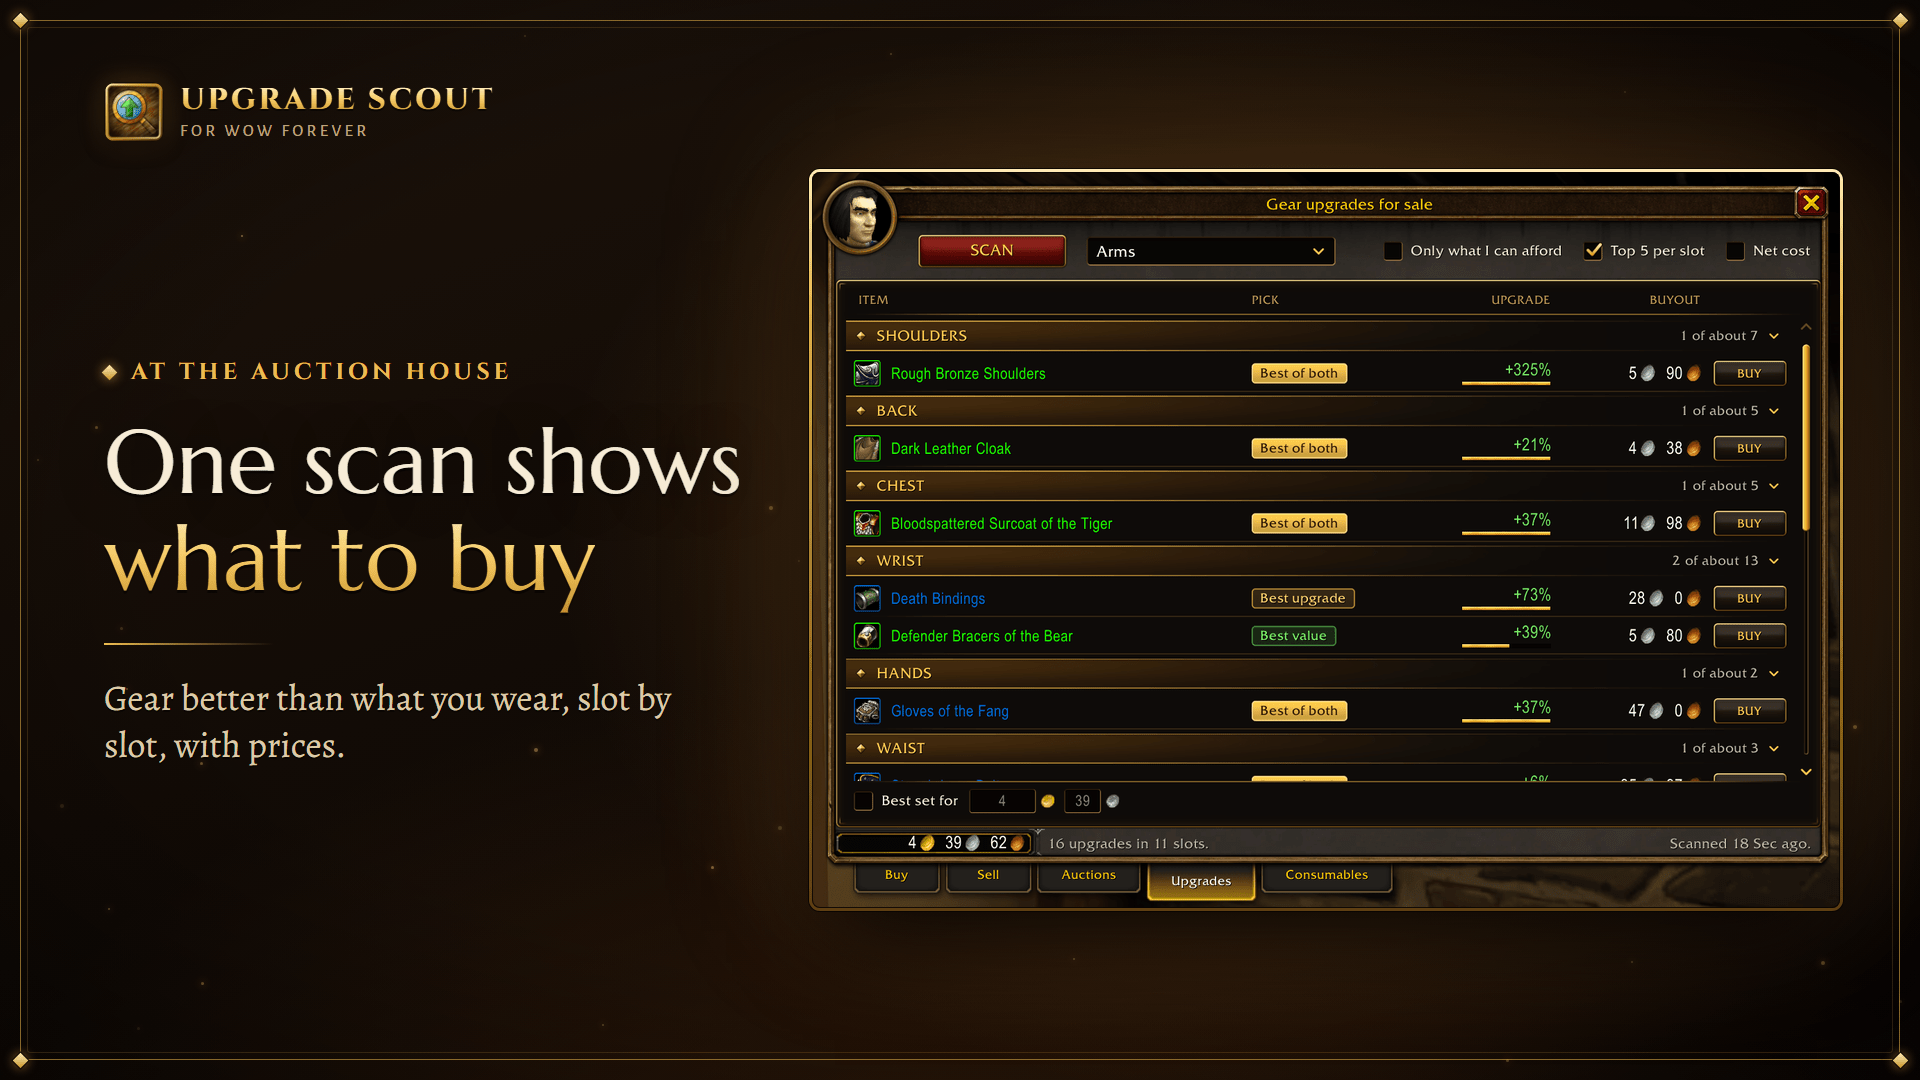
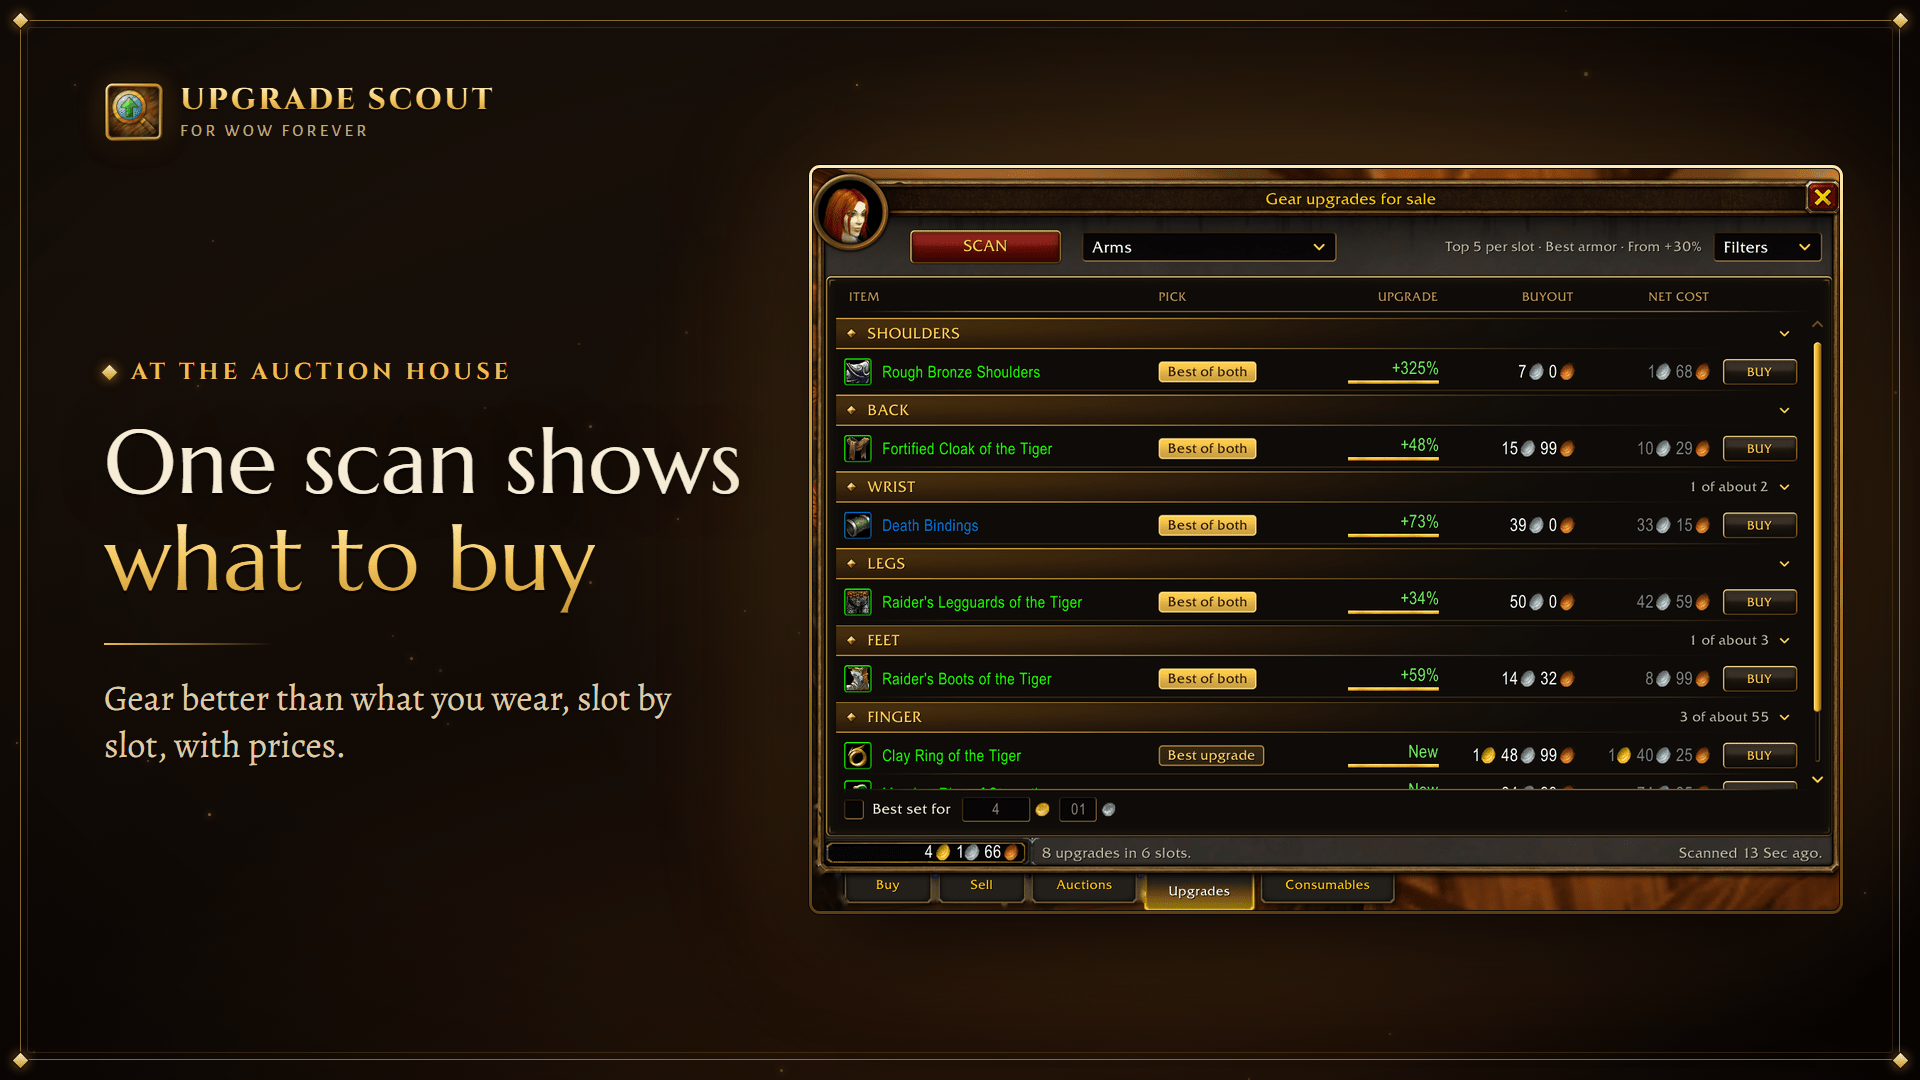
docs: the gallery for 2.6, a cover and eleven cards on new screenshots
The cards follow what a player does: find and buy at the auction house,
consumables, then tooltips and bags, prices, filters, other characters, the
mail, the setup. Three are new: the box that asks before a purchase, the
Filters menu, and Pawn. The price card shows the two prices side by side, the
setup card the window as it is now, and the tooltip card says "Every spec".

The user's brief for the pictures: every one shows the addon's own weights,
and Pawn has a single card that says the addon works with Pawn in full. It is
the last one, and the CurseForge description follows suit: no line about Pawn
on top, one section "For Pawn users" near the end.

README.md shows the new set and docs/screenshot-captions.md lists its
captions. The pictures in the CurseForge description still point at the old
uploads: the new ones get their addresses once they are in CurseForge's
gallery. The seven old pictures stay in docs/img until then, in case a copy of
the old README is still shown somewhere.

Changed region(s): [[0.4062, 0.1528, 0.9688, 0.8556], [0.7812, 0.3972, 0.8125, 0.4278], [0.7188, 0.6111, 0.75, 0.6417]]

diff --git a/docs/curseforge-description.html b/docs/curseforge-description.html
@@ -4,8 +4,6 @@
 
 <p>Open the auction house, press <strong>Scan</strong> and see what is worth buying. It works right after you install it. No other addon is needed.</p>
 
-<p>Use Pawn? Choose <strong>Pawn</strong> in the addon's window, and gear is scored on your Pawn scales.</p>
-
 <p>&nbsp;</p>
 <p><a href="https://media.forgecdn.net/attachments/2209/882/1-scan-png.png"><img src="https://media.forgecdn.net/attachments/2209/882/1-scan-png.png" alt="One scan shows what to buy: the Upgrades tab at the auction house, gear upgrades slot by slot, each with its gain in percent, its buyout and a Buy button" width="760"></a></p>
 <p><a href="https://media.forgecdn.net/attachments/2209/883/2-tooltip-png.png"><img src="https://media.forgecdn.net/attachments/2209/883/2-tooltip-png.png" alt="Every talent tree in the tooltip: an item tooltip with the Upgrade Scout lines, the gain for Arms, Fury and Protection" width="760"></a></p>
@@ -55,18 +53,6 @@
 <li>The bag arrows can be switched off as well.</li>
 </ul>
 
-<h2><strong>Scores: the addon's own or Pawn's</strong></h2>
-<ul>
-<li>The addon scores gear with its own stat weights for every spec, worked out with the <a href="https://github.com/wowsims/forever">wowsims/forever</a> simulator. No other addon is needed.</li>
-<li>Use Pawn? In the addon's window, under <strong>Who scores your gear?</strong>, choose <strong>Pawn</strong>. Gear is then scored on your Pawn scales, not on the addon's weights. The lists and the bag arrows go by them, the <strong>Profile</strong> dropdown lists your scales, and the tooltip lines are Pawn's own.</li>
-<li>The choice is for the whole account. Without Pawn, or with Pawn switched off, the addon scores by its own weights.</li>
-<li>With Pawn chosen, a list made for another of your characters goes by that character's Pawn scales. Its tooltips have the addon's lines, and they say so: <strong>Upgrade Scout (Pawn score)</strong>.</li>
-<li>A profile says what each stat is worth for one spec. An item's score is the sum of its stats, each times its weight in the profile.</li>
-<li>The addon starts on the talent tree you have the most points in; you can pick another in the <strong>Profile</strong> dropdown.</li>
-<li>The weights are for a level 60 character, so they are an approximation. Below 60, hit, crit, haste and expertise count for less, as simulations of leveling characters show. Stamina (except for tanks), and a healer's Intellect, Spirit and mana regeneration, are set by hand. Armor, shield block, defense, dodge and parry count on every profile: against Stamina, as much as they help the simulator's tank. A <code>~</code> marks a profile whose weights are estimated because no simulation covers its tree yet.</li>
-<li><code>/upscout stats</code> and an item shows how the item gets its score, stat by stat.</li>
-</ul>
-
 <h2><strong>Other characters</strong></h2>
 <ul>
 <li>Log in to the other character once with the addon installed. The addon saves its gear, level and skills.</li>
@@ -74,11 +60,28 @@
 <li>At a mailbox, take the gear you bought out of the mail. A button under the mail window then puts it into a letter to that character. Consumables you send yourself.</li>
 </ul>
 
+<h2><strong>Profiles and scores</strong></h2>
+<ul>
+<li>The addon scores gear with its own stat weights for every spec, worked out with the <a href="https://github.com/wowsims/forever">wowsims/forever</a> simulator. No other addon is needed.</li>
+<li>A profile says what each stat is worth for one spec. An item's score is the sum of its stats, each times its weight in the profile.</li>
+<li>The addon starts on the talent tree you have the most points in; you can pick another in the <strong>Profile</strong> dropdown.</li>
+<li>The weights are for a level 60 character, so they are an approximation. Below 60, hit, crit, haste and expertise count for less, as simulations of leveling characters show. Stamina (except for tanks), and a healer's Intellect, Spirit and mana regeneration, are set by hand. Armor, shield block, defense, dodge and parry count on every profile: against Stamina, as much as they help the simulator's tank. A <code>~</code> marks a profile whose weights are estimated because no simulation covers its tree yet.</li>
+<li><code>/upscout stats</code> and an item shows how the item gets its score, stat by stat.</li>
+</ul>
+
 <h2><strong>Settings and commands</strong></h2>
 <ul>
-<li>A window on your first login shows what the addon does. There you choose who scores your gear and your spec, and can switch off the tooltip lines and the bag arrows. The addon's button at the minimap opens it again, and so does <code>/upscout</code>.</li>
+<li>A window on your first login shows what the addon does. There you choose your spec and can switch off the tooltip lines and the bag arrows. The addon's button at the minimap opens it again, and so does <code>/upscout</code>.</li>
 <li><code>/upscout stats</code> shows how long the last scan took.</li>
 <li><code>/upscout forget Name</code> removes a deleted character from the dropdown.</li>
+</ul>
+
+<h2><strong>For Pawn users</strong></h2>
+<ul>
+<li>Use Pawn? In the addon's window, under <strong>Who scores your gear?</strong>, choose <strong>Pawn</strong>. Gear is then scored on your Pawn scales, not on the addon's weights.</li>
+<li>Everything goes by them: the lists at the auction house, the bag arrows and the tooltips, where the lines are Pawn's own. The <strong>Profile</strong> dropdown lists your scales, for your other characters too.</li>
+<li>A list made for another of your characters goes by that character's Pawn scales. Its tooltips have the addon's lines, and they say so: <strong>Upgrade Scout (Pawn score)</strong>.</li>
+<li>The choice is for the whole account. Without Pawn, or with Pawn switched off, the addon scores by its own weights.</li>
 </ul>
 
 <h2><strong>Requirements</strong></h2>

diff --git a/README.md b/README.md
@@ -22,19 +22,25 @@ wear: in your bags, in loot, in a quest reward and in a chat link.
 
 ![One scan shows what to buy: the Upgrades tab at the auction house](https://raw.githubusercontent.com/dibenkobit/upgrade-scout/main/docs/img/1-scan.png)
 
-![Every talent tree in the tooltip](https://raw.githubusercontent.com/dibenkobit/upgrade-scout/main/docs/img/2-tooltip.png)
+![Buy right from the list: the box that asks before a purchase](https://raw.githubusercontent.com/dibenkobit/upgrade-scout/main/docs/img/2-buy.png)
 
-![A green arrow in your bags](https://raw.githubusercontent.com/dibenkobit/upgrade-scout/main/docs/img/3-bags.png)
+![Consumables too: the Consumables tab at the auction house](https://raw.githubusercontent.com/dibenkobit/upgrade-scout/main/docs/img/3-consumables.png)
 
-![Consumables too: the Consumables tab at the auction house](https://raw.githubusercontent.com/dibenkobit/upgrade-scout/main/docs/img/4-consumables.png)
+![Every spec in the tooltip](https://raw.githubusercontent.com/dibenkobit/upgrade-scout/main/docs/img/4-tooltip.png)
 
-![Shop for your other characters: the Profile dropdown](https://raw.githubusercontent.com/dibenkobit/upgrade-scout/main/docs/img/5-characters.png)
+![A green arrow in your bags](https://raw.githubusercontent.com/dibenkobit/upgrade-scout/main/docs/img/5-bags.png)
 
-![Mail your purchases in two clicks](https://raw.githubusercontent.com/dibenkobit/upgrade-scout/main/docs/img/6-mail.png)
+![What gear costs you in the end: the buyout and the net cost side by side](https://raw.githubusercontent.com/dibenkobit/upgrade-scout/main/docs/img/6-prices.png)
 
-![What gear costs you in the end: the Net cost box](https://raw.githubusercontent.com/dibenkobit/upgrade-scout/main/docs/img/7-netcost.png)
+![Only upgrades worth a look: the Filters menu](https://raw.githubusercontent.com/dibenkobit/upgrade-scout/main/docs/img/7-filters.png)
 
-![One window to set it up: the welcome window](https://raw.githubusercontent.com/dibenkobit/upgrade-scout/main/docs/img/8-welcome.png)
+![Shop for your other characters: the Profile dropdown](https://raw.githubusercontent.com/dibenkobit/upgrade-scout/main/docs/img/8-characters.png)
+
+![Mail your purchases in two clicks](https://raw.githubusercontent.com/dibenkobit/upgrade-scout/main/docs/img/9-mail.png)
+
+![One window to set it up: the addon's window](https://raw.githubusercontent.com/dibenkobit/upgrade-scout/main/docs/img/10-setup.png)
+
+![Use Pawn? Keep your scales: Pawn chosen in the addon's window, and its lines in a tooltip](https://raw.githubusercontent.com/dibenkobit/upgrade-scout/main/docs/img/11-pawn.png)
 
 ## What it does
 

diff --git a/docs/screenshot-captions.md b/docs/screenshot-captions.md
@@ -3,11 +3,16 @@
 In the order of the gallery on CurseForge, which is also the order of the pictures in the
 description (`curseforge-description.html`). Each picture carries its caption as a headline.
 
+Every picture shows the addon's own weights. Pawn has one card, the last.
+
 1. One scan shows what to buy
-2. Every talent tree in the tooltip
-3. A green arrow in your bags
-4. Consumables too
-5. Shop for your other characters
-6. Mail your purchases in two clicks
-7. What gear costs you in the end
-8. One window to set it up
+2. Buy right from the list
+3. Consumables too
+4. Every spec in the tooltip
+5. A green arrow in your bags
+6. What gear costs you in the end
+7. Only upgrades worth a look
+8. Shop for your other characters
+9. Mail your purchases in two clicks
+10. One window to set it up
+11. Use Pawn? Keep your scales
